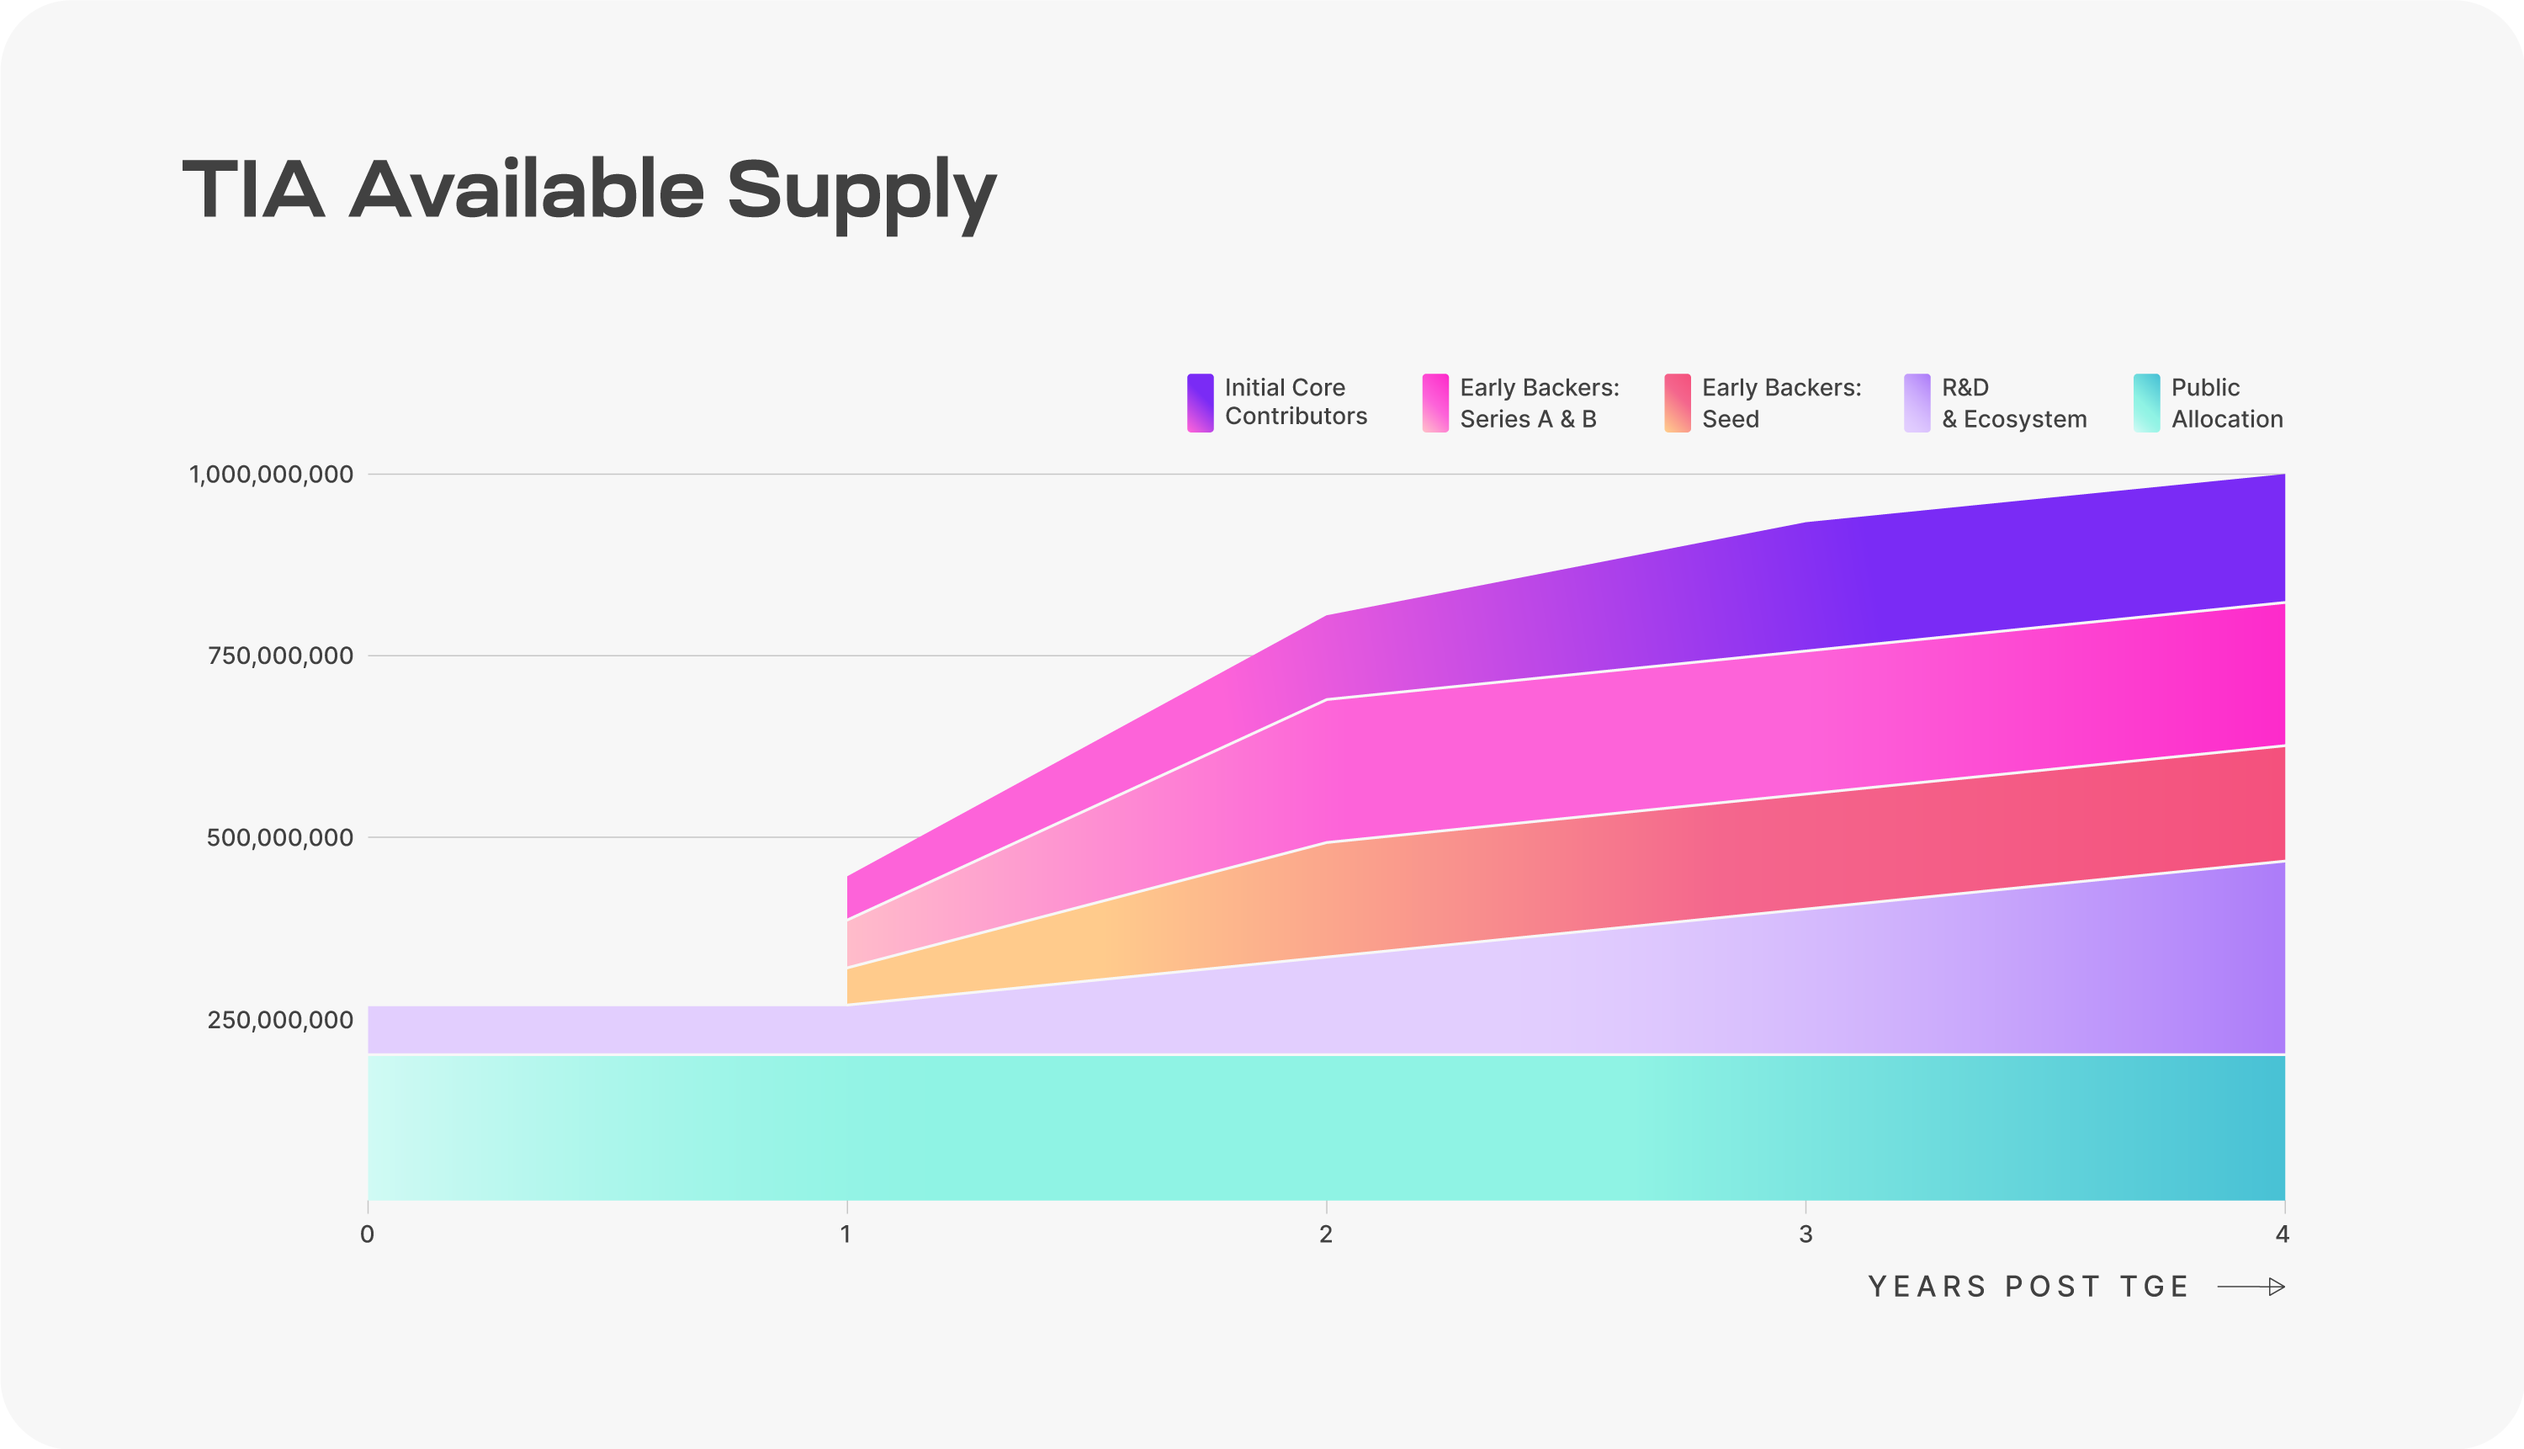
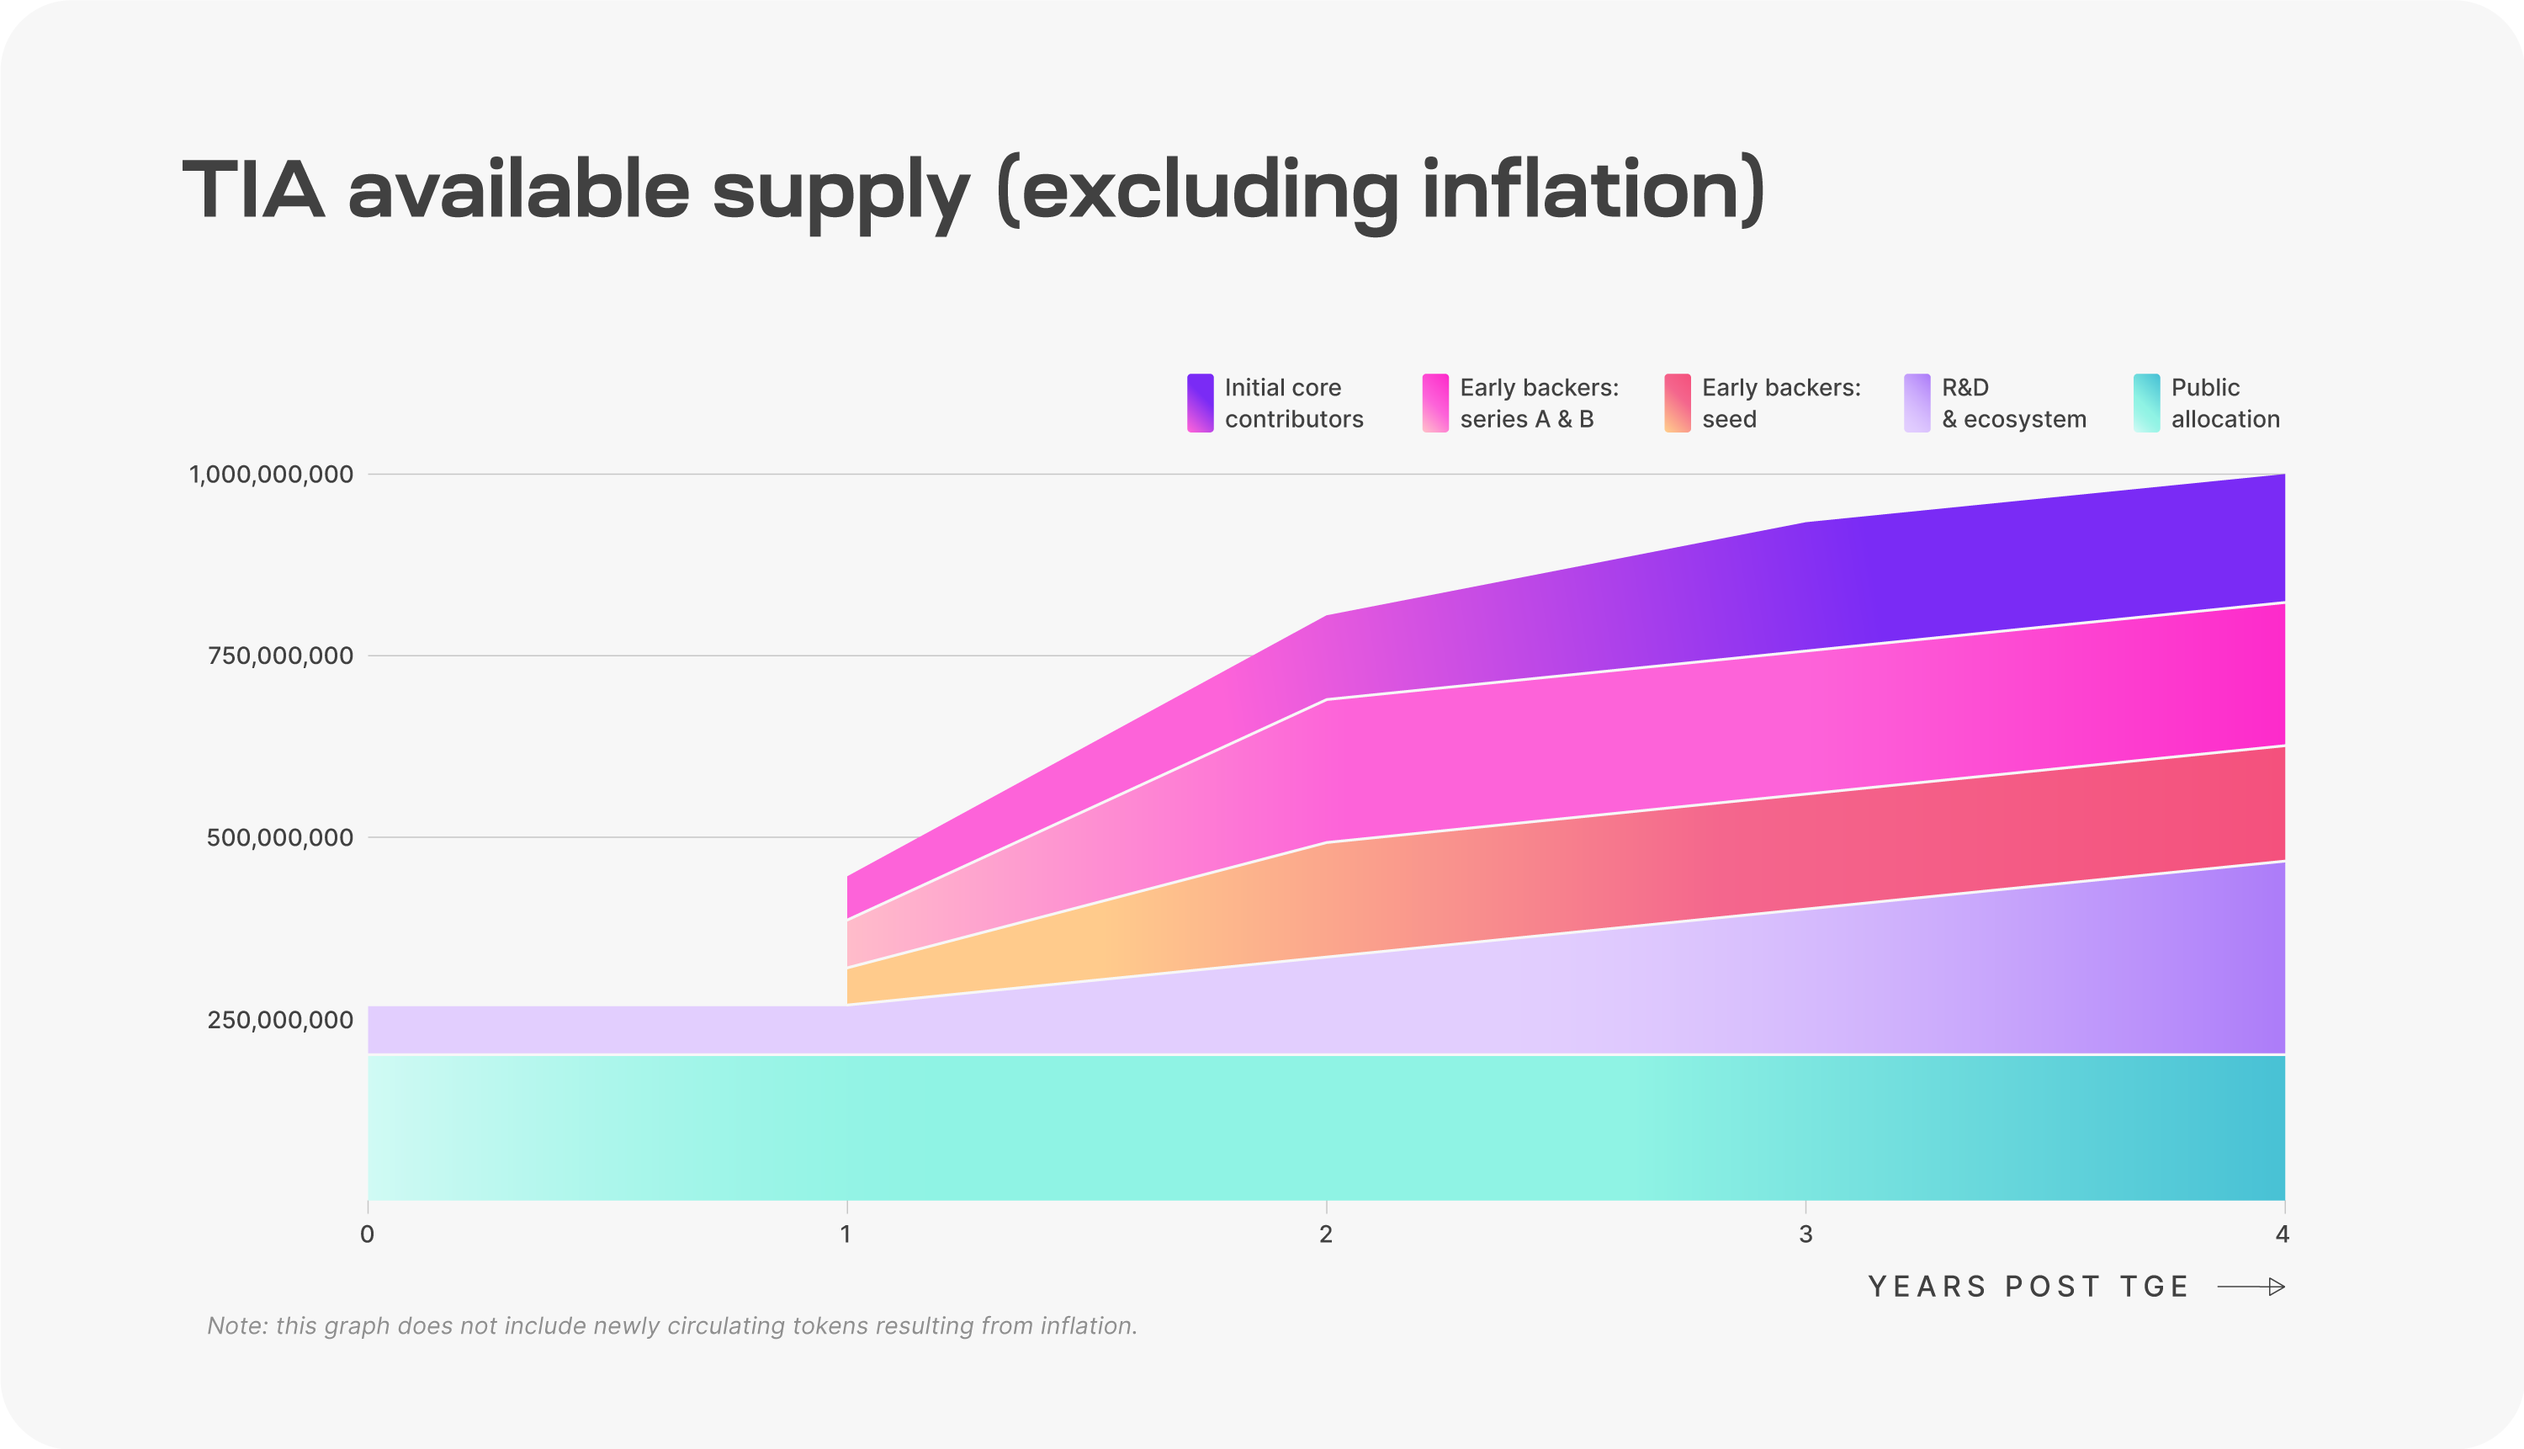
chore: update copy & image for supply (#1166)
* chore: update copy for supply

* chore: update graphics

diff --git a/docs/learn/staking-governance-supply.md b/docs/learn/staking-governance-supply.md
@@ -84,7 +84,7 @@ split across five categories described in the chart and table below.
 
 Celestia’s 1 billion TIA supply at genesis will be subject to several different
 unlock schedules. All tokens, locked or unlocked, may be staked, but staking
-rewards are unlocked upon receipt.
+rewards are unlocked upon receipt and will add to the circulating supply.
 
 **Circulating supply** is defined as the amount of TIA tokens in general
 circulation without onchain transfer restrictions.
